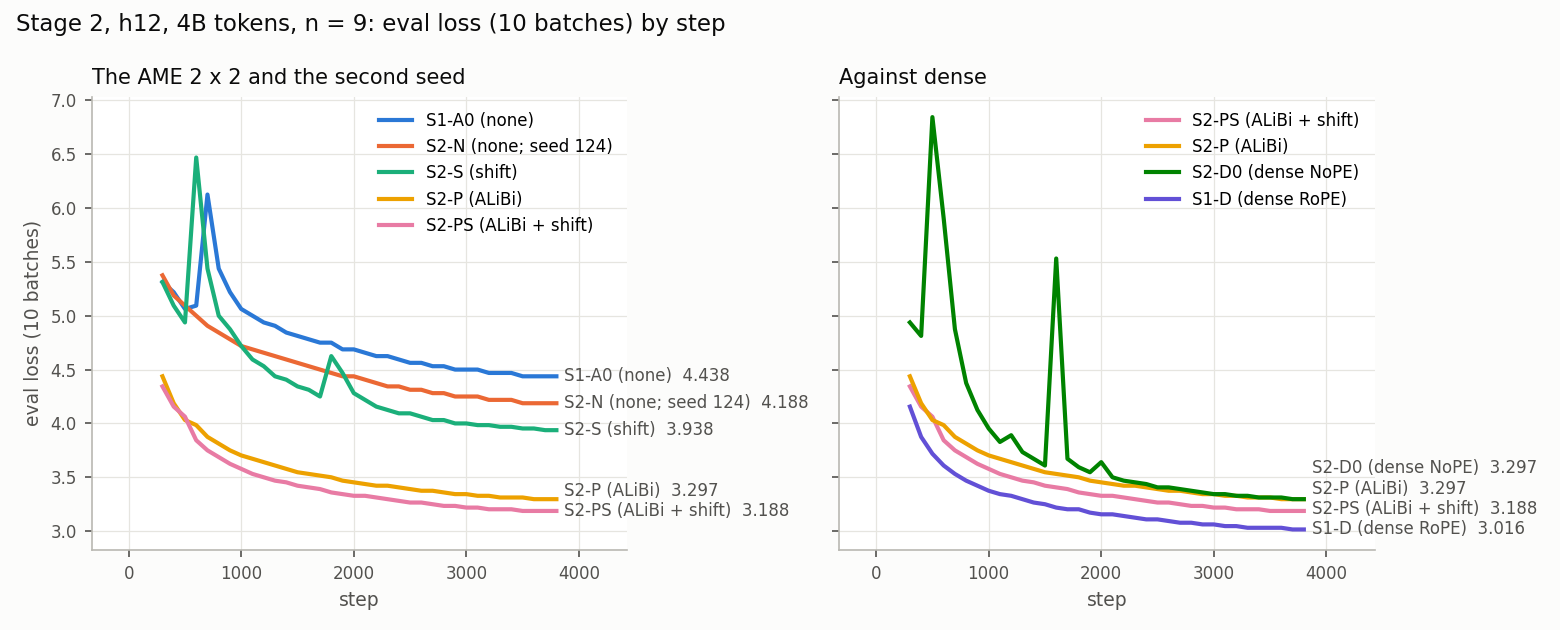
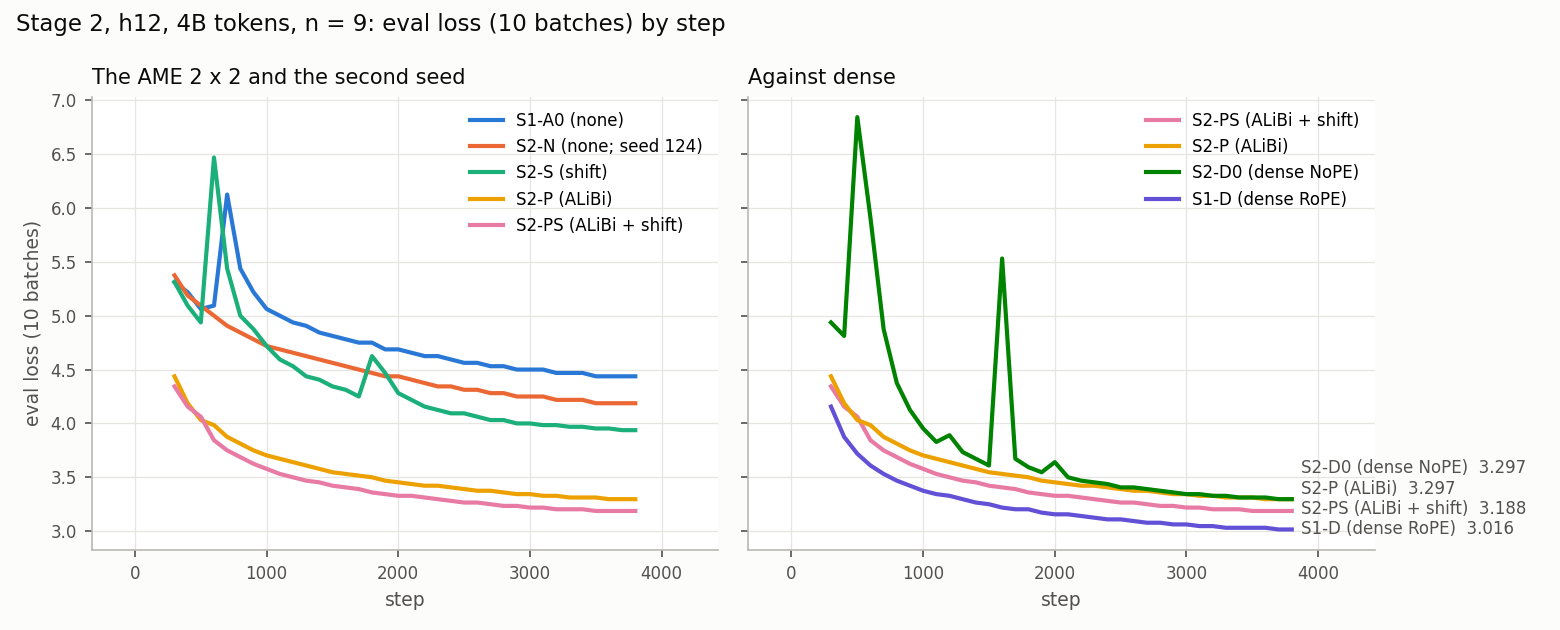
docs: stage_1_report.md -- Stage 1 complete; both arms' best inside the grid
AME n = 5 (4.4512) and 4 (4.5215) ended worse than n = 6 (4.2656), so
S1-A0's best is inside its grid at n = 6, as S1-D's is at n = 8
(2.9824). The n* used downstream stays 9 for both, by Maciej's decision.
The report opens with the result: every grid point's final_ce, the
learning-rate sweep and eval-curve figures, the AME-dense gap (1.407 at
n = 9, 1.283 between the bests), tau and attention entropy at every n,
and the commits, configs and W&B ids. stage_results.py gains a sweep
plot and drops end labels on panels of more than four series.

diff --git a/documents/scripts/stage_results.py b/documents/scripts/stage_results.py
@@ -8,6 +8,8 @@ the run logged, never from the config file's name.
     python documents/scripts/stage_results.py table <id> [<id> ...]
     python documents/scripts/stage_results.py evals <id> [<id> ...]
     python documents/scripts/stage_results.py readouts <id> [<id> ...]
+    python documents/scripts/stage_results.py sweep OUT.png TITLE CHOSEN_N \
+        "<arm label>=<n>:<id>,<n>:<id>,..." ["<arm label>=..." ...]
     python documents/scripts/stage_results.py curves OUT.png TITLE \
         "<panel title>=<id>:<label>,<id>:<label>,..." ["<panel title>=..." ...]
 
@@ -235,10 +237,13 @@ def cmd_curves(out, title, panels):
         pad = (hi - lo) * 0.05
         axes[0][0].set_ylim(lo - pad, hi + pad)
     # End labels, pushed apart so close final losses stay readable: sorted by
-    # value, each at least `gap` above the one below it.
+    # value, each at least `gap` above the one below it. Only on panels of at most
+    # four series; past that they collide, and the legend carries identity alone.
     y0, y1 = axes[0][0].get_ylim()
     gap = (y1 - y0) * 0.045
     for ax, panel_ends in zip(axes[0], ends):
+        if len(panel_ends) > 4:
+            continue
         x0, x1 = ax.get_xlim()
         dx = (x1 - x0) * 0.015
         placed = None
@@ -248,6 +253,52 @@ def cmd_curves(out, title, panels):
             ax.annotate(text, (x, y), xytext=(x + dx, ty), textcoords="data", va="center",
                         fontsize=8, color="#52514e")
     fig.suptitle(title, fontsize=11, x=0.01, ha="left", color="#0b0b0b")
+    fig.tight_layout()
+    fig.savefig(out, dpi=150, facecolor="#fcfcfb")
+    print(f"wrote {out}")
+
+
+def cmd_sweep(out, title, chosen_n, series_specs):
+    """final_ce against the learning-rate exponent n, one line per arm.
+
+    Each spec is "<label>=<n>:<id>,<n>:<id>,...". The lowest point of each arm is
+    ringed, and `chosen_n` (the n* actually used downstream) is a dashed line.
+    """
+    import matplotlib
+
+    matplotlib.use("Agg")
+    import matplotlib.pyplot as plt
+
+    api = _api()
+    fig, ax = plt.subplots(figsize=(6.4, 4.2))
+    for i, spec in enumerate(series_specs):
+        label, runs = spec.split("=", 1)
+        pts = []
+        for item in runs.split(","):
+            n, rid = item.split(":", 1)
+            pts.append((int(n), float(api.run(f"{PROJECT}/{rid}").summary.get("steps/final_ce"))))
+        pts.sort()
+        xs, ys = zip(*pts)
+        colour = _SLOT[i % len(_SLOT)]
+        ax.plot(xs, ys, color=colour, linewidth=2, marker="o", markersize=5, label=label)
+        best_n, best = min(pts, key=lambda p: p[1])
+        ax.plot([best_n], [best], marker="o", markersize=13, markerfacecolor="none",
+                markeredgecolor=colour, markeredgewidth=1.5)
+        ax.annotate(f"best n = {best_n}: {best:.3f}", (best_n, best), xytext=(10, 8),
+                    textcoords="offset points", ha="left", fontsize=8, color="#52514e")
+    ax.axvline(float(chosen_n), color="#8a8984", linewidth=1, linestyle="--")
+    ax.annotate(f"n* = {chosen_n} (used)", (float(chosen_n), ax.get_ylim()[1]), xytext=(4, -12),
+                textcoords="offset points", fontsize=8, color="#52514e")
+    ax.set_xlabel("n, with learning rate 2^-n (higher LR to the left)", fontsize=9, color="#52514e")
+    ax.set_ylabel("final_ce (8192 x 2048 held-out tokens)", fontsize=9, color="#52514e")
+    ax.set_title(title, fontsize=10, color="#0b0b0b", loc="left")
+    ax.grid(True, color="#e6e5e0", linewidth=0.6)
+    for side in ("top", "right"):
+        ax.spines[side].set_visible(False)
+    for side in ("left", "bottom"):
+        ax.spines[side].set_color("#b9b8b2")
+    ax.tick_params(colors="#52514e", labelsize=8)
+    ax.legend(fontsize=8, frameon=False)
     fig.tight_layout()
     fig.savefig(out, dpi=150, facecolor="#fcfcfb")
     print(f"wrote {out}")
@@ -266,6 +317,8 @@ def main(argv):
         cmd_readouts(rest)
     elif cmd == "curves":
         cmd_curves(rest[0], rest[1], rest[2:])
+    elif cmd == "sweep":
+        cmd_sweep(rest[0], rest[1], rest[2], rest[3:])
     else:
         print(__doc__)
         return 2

diff --git a/documents/notes/stage_1_report.md b/documents/notes/stage_1_report.md
@@ -1,10 +1,40 @@
 # Stage 1 — first models: report
 
-**Status: n\* = 9 for both arms, by Maciej's decision (decision 9). Dense's best (n = 8) is inside its grid. AME improves all the way to n = 6, so n = 5 and 4 run (job 6255094, from 11:52).**
+**Status: complete (2026-11-06 15:59). Both arms have their best learning rate inside the grid: n = 8 for dense, n = 6 for AME. The n\* used downstream is 9 for both, by Maciej's decision. No Stage 1 job is queued or running.**
 
 The plan is [ame_experiments.md, "Stage 1 — first models"](ame_experiments.md#stage-1--first-models).
 This file is its record: every job, every result, and every decision the plan left open,
 each with its reason. Times are CET.
+
+## Result
+
+| | S1-D, dense h12 with RoPE | S1-A0, simplest AME h12 |
+|---|---|---|
+| Learning rates trained | n = 7–13 | n = 4–13 |
+| Best by the plan's rule (lowest `final_ce`) | **n = 8: 2.9824**, inside the grid (n = 7: 4.2734, n = 9: 3.0244) | **n = 6: 4.2656**, inside the grid (n = 5: 4.4512, n = 7: 4.3262) |
+| n\* used downstream (Stage 2) | **9**, by Maciej's decision (decision 9) | **9**, the same |
+| `final_ce` at n\* = 9 | 3.0244 | 4.4316 (second seed: 4.1992, [stage_2_report.md](stage_2_report.md)) |
+| The AME–dense gap | | **1.407 nats at n = 9**; 1.283 between each arm's best (4.2656 − 2.9824) |
+
+- **The best learning rates differ by 4×.** AME's is 2⁻⁶ against dense's 2⁻⁸. AME
+  keeps gaining from learning rates at which dense breaks down: dense n = 7 stuck near a
+  loss of 6 for 900 steps.
+- **AME's attention sharpens as its learning rate rises.** Normalized entropy runs from
+  0.93 at n = 10–13 to 0.77 at n = 6 and 0.50 at n = 4.
+- **Every run at n ≤ 11 had at least one loss spike in its first 2,200 steps.** Most
+  recovered.
+- **What S1-A0 is.** It has no positional signal and no shift, so it is 1.4 nats behind
+  dense at the same learning rate. As the plan expected, it is the weakest member of the
+  AME family; Stage 2 measures how much positional encoding and the shift recover.
+
+![Stage 1 learning-rate sweep](stage_figures/stage_1_lr_sweep.png)
+
+![Stage 1 eval loss](stage_figures/stage_1_eval_loss.png)
+
+*Top: `final_ce` against n. The ring marks each arm's lowest point; the dashed line is
+the n\* used. Bottom: eval loss on 10 batches by step, from step 300. Both were made
+with [documents/scripts/stage_results.py](../scripts/stage_results.py) (`sweep`,
+`curves`).*
 
 ## Setup
 
@@ -209,8 +239,8 @@ expected parameter count, and there was no error in the log.
 | S1-A0 | 7 | 2⁻⁷ = 7.81e-3 | 6253086_0 | `5bvmqr0l` | r10-4 |
 | S1-A0 | 6 | 2⁻⁶ = 1.56e-2 | 6253086_1 | `lr528luy` | r10-7 |
 | S1-D | 7 | 2⁻⁷ | 6253087_0 | `6ldjhbyd` | r12-3 |
-| S1-A0 | 5 | 2⁻⁵ = 3.13e-2 | 6255094_0 | | |
-| S1-A0 | 4 | 2⁻⁴ = 6.25e-2 | 6255094_1 | | |
+| S1-A0 | 5 | 2⁻⁵ = 3.13e-2 | 6255094_0 | `lj0xg6yj` | r12-13 |
+| S1-A0 | 4 | 2⁻⁴ = 6.25e-2 | 6255094_1 | `vla8p16s` | r12-4 |
 
 The n = 9 runs (decision 6) were submitted at 01:41 from the same worktree. The only change
 was each grid file's `^learning_rate` list, edited to `[9]` and left uncommitted, as the
@@ -400,6 +430,50 @@ n = 7 trailing n = 8 mid-run before passing it by the end.
   measured point (4.4316 against 4.2656), and S1-D 0.042 above its best.
 - **The AME–dense gap depends on the n compared.** At the best measured points it is
   4.2656 − 2.9824 = **1.283 nats**; at n = 9 it is 1.407.
+
+### n = 5 and 4 (15:59): AME's best is inside the grid, at n = 6
+
+| Arm | n | `final_ce` | Last 10-batch eval | Loss spikes (train) | s/step | MFU | Peak GiB | Job | W&B run | Commit |
+|---|---:|---:|---:|---|---:|---:|---:|---|---|---|
+| S1-A0 | 5 | 4.4512 | 4.4375 | steps 556–574 → 7.38; 1,202–1,226 → 8.25; 2,020–2,042 → 7.03 | 3.599 | 31.0% | 66.08 | 6255094_0 | `lj0xg6yj` | `8a240816` + AME list `[5, 4]` (`4941a4d6`) |
+| S1-A0 | 4 | 4.5215 | 4.5312 | steps 625–645 → 7.84; 1,266–1,287 → 7.75; 2,005–2,021 → 6.75; 3,102 → 5.41 | 3.613 | 30.9% | 66.08 | 6255094_1 | `vla8p16s` | the same |
+
+Both are worse than n = 6, so AME's lowest loss, at n = 6, now has a worse point on each
+side. By the plan's rule the S1-A0 grid is done (decision 10's "if n = 5 and 4 diverge or
+end worse"). They did not diverge: they trained, with three and four spikes, and ended
+0.19 and 0.26 above n = 6. Two spikes not listed above: n = 6 spiked once, at steps
+2,126–2,151 (4.66 → 12.12), and n = 7 once, at steps 977–1,001 (5.06 → 7.66).
+
+**Every Stage 1 run, at a glance** (`final_ce`):
+
+| Arm | 4 | 5 | 6 | 7 | 8 | 9 | 10 | 11 | 12 | 13 |
+|---|---:|---:|---:|---:|---:|---:|---:|---:|---:|---:|
+| S1-D | — | — | — | 4.2734 | **2.9824** | 3.0244 | 3.2002 | 3.3027 | 3.5215 | 3.8301 |
+| S1-A0 | 4.5215 | 4.4512 | **4.2656** | 4.3262 | 4.3711 | 4.4316 | 4.5137 | 4.6387 | 4.7715 | 4.9844 |
+
+**S1-A0 readouts at the end of training, all n.** τ starts at 8; the entropy is
+normalized by the log of the number of keys in view.
+
+| n | τ, mean | Attention entropy, normalized | Top-8 mass |
+|---:|---:|---:|---:|
+| 4 | 7.72 | 0.503 | 0.517 |
+| 5 | 7.66 | 0.608 | 0.418 |
+| 6 | 7.48 | 0.770 | 0.267 |
+| 7 | 6.70 | 0.857 | 0.180 |
+| 8 | 6.76 | 0.891 | 0.159 |
+| 9 | 6.89 | 0.909 | 0.137 |
+| 10 | 6.82 | 0.930 | 0.113 |
+| 11 | 7.15 | 0.932 | 0.108 |
+| 12 | 7.49 | 0.933 | 0.105 |
+| 13 | 7.72 | 0.932 | 0.105 |
+
+- **At n ≥ 10, attention stays almost uniform** (entropy about 0.93). The banks barely
+  learn token-pair affinities.
+- **From n = 9 down, attention grows steadily sharper.** At n = 4–5 the 8 strongest keys
+  take about half the mass, as ALiBi does in Stage 2. The best loss, though, is at n = 6,
+  at intermediate sharpness.
+- **τ dips below 8 at intermediate learning rates** (about 6.7–6.9 at n = 7–10) and
+  stays near 7.5–7.7 at both ends.
 
 ## W&B runs to ignore
 

diff --git a/documents/notes/stage_2_report.md b/documents/notes/stage_2_report.md
@@ -240,12 +240,13 @@ at the new n before a winner is named. The runs were submitted at 13:52–13:53 
 `~/code/nano-stage2` at `f9680709`, with `trainer.learning_rate=8` and `=10` on the
 command line, as the plan says. `sbatch` was again run by hand (decision 2).
 
-| Arm | n | Job | Cemetery commit | Cemetery clone |
-|---|---:|---|---|---|
-| S2-PS | 8 | 6256577 | `3c8f550b` | `s2_ps_h12_lr8.0_2026-11-06_13-52-40` |
-| S2-PS | 10 | 6256578 | `158fc826` | `s2_ps_h12_lr10.0_2026-11-06_13-53-00` |
+| Arm | n | Job | Cemetery commit | Cemetery clone | W&B run | Node |
+|---|---:|---|---|---|---|---|
+| S2-PS | 8 | 6256577 | `3c8f550b` | `s2_ps_h12_lr8.0_2026-11-06_13-52-40` | `doi36p8k` | r18-14 |
+| S2-PS | 10 | 6256578 | `158fc826` | `s2_ps_h12_lr10.0_2026-11-06_13-53-00` | `p1oslt5b` | r16-14 |
 
-Results: pending; about 4.4 h once running.
+Both started at about 14:42 and passed the startup check (1,103,599,056 parameters, no
+error). Results: pending, around 19:05.
 
 ## For Maciej
 
